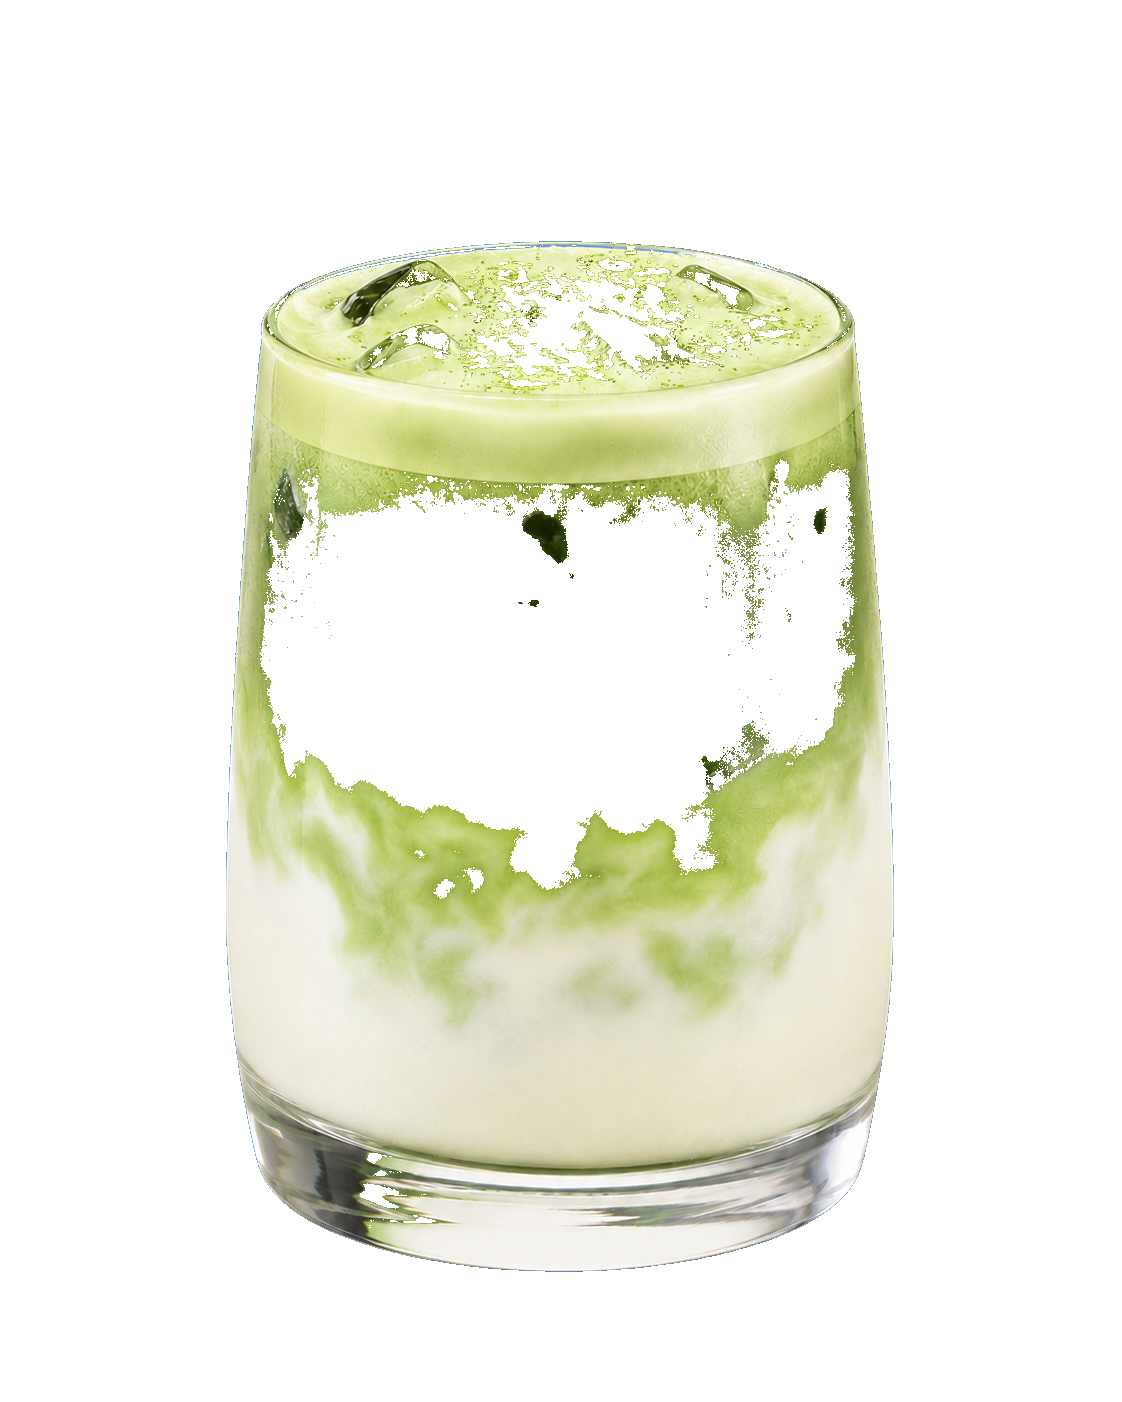
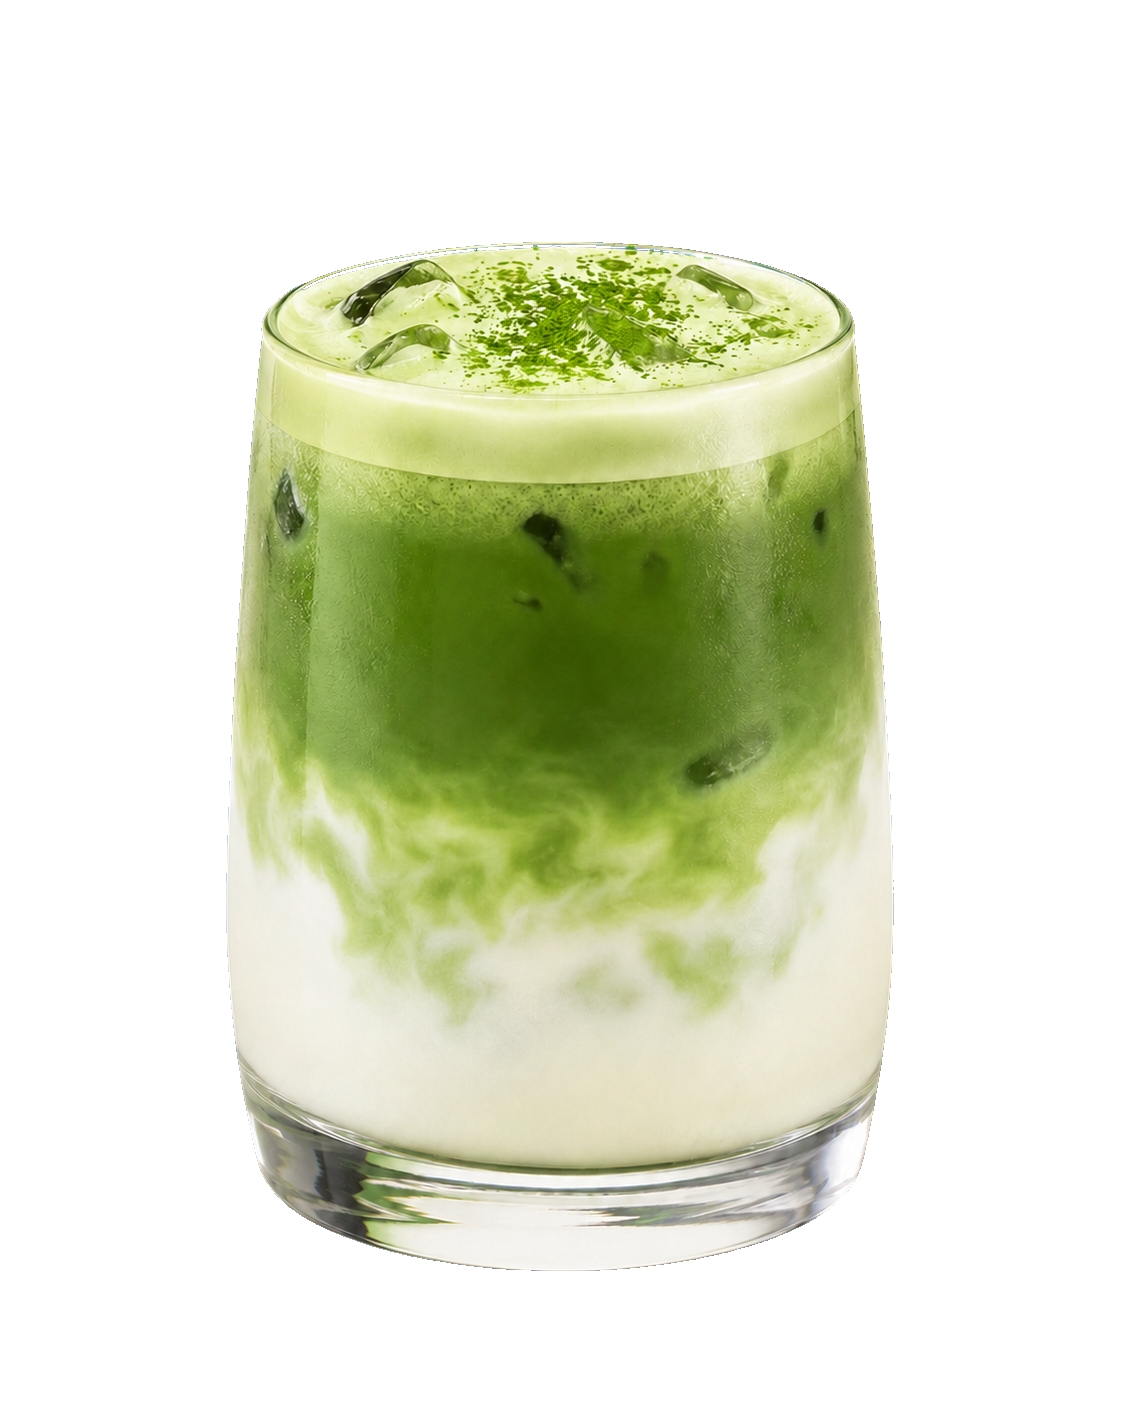
feat: adjust hero delays, transition duration to 2s, remove blue bg from matcha, reposition gallery, and wrap menu tabs

diff --git a/components/sections/HeroSection.tsx b/components/sections/HeroSection.tsx
@@ -143,9 +143,9 @@ export function HeroSection() {
       <div className="max-w-6xl mx-auto relative z-10 w-full">
         <div className="max-w-4xl space-y-8">
           
-          {/* Badge animation - slides in left, delay: 1000ms */}
+          {/* Badge animation - slides in left, delay: 150ms */}
           <div
-            style={{ transitionDelay: "1000ms" }}
+            style={{ transitionDelay: "150ms" }}
             className={cn(
               "animate-slide-in-left duration-700",
               isInView && "in-view"
@@ -156,10 +156,10 @@ export function HeroSection() {
             </span>
           </div>
 
-          {/* Headline animations - slides in left. Dòng 1 (1200ms) ➔ Dòng 2 (1550ms) */}
+          {/* Headline animations - slides in left. Dòng 1 (350ms) ➔ Dòng 2 (600ms) */}
           <h1 className="font-serif font-black text-espresso-dark leading-[1.25] tracking-tight pb-2">
             <span
-              style={{ transitionDelay: "1200ms" }}
+              style={{ transitionDelay: "350ms" }}
               className={cn(
                 "block text-4xl sm:text-5xl md:text-6xl lg:text-7xl whitespace-nowrap animate-slide-in-left duration-700",
                 isInView && "in-view"
@@ -168,7 +168,7 @@ export function HeroSection() {
               {t.headlineLine1}
             </span>
             <span
-              style={{ transitionDelay: "1550ms" }}
+              style={{ transitionDelay: "600ms" }}
               className={cn(
                 "block text-4xl sm:text-5xl md:text-6xl lg:text-7xl whitespace-nowrap mt-2 text-olive-primary animate-slide-in-left duration-700",
                 isInView && "in-view"
@@ -178,9 +178,9 @@ export function HeroSection() {
             </span>
           </h1>
 
-          {/* Subheadline animation - slides in left, delay: 1900ms */}
+          {/* Subheadline animation - slides in left, delay: 850ms */}
           <div
-            style={{ transitionDelay: "1900ms" }}
+            style={{ transitionDelay: "850ms" }}
             className={cn(
               "animate-slide-in-left duration-700",
               isInView && "in-view"
@@ -191,9 +191,9 @@ export function HeroSection() {
             </p>
           </div>
 
-          {/* Typing Effect - slides in left, delay: 2100ms */}
+          {/* Typing Effect - slides in left, delay: 1050ms */}
           <div
-            style={{ transitionDelay: "2100ms" }}
+            style={{ transitionDelay: "1050ms" }}
             className={cn(
               "h-10 flex items-center animate-slide-in-left duration-700",
               isInView && "in-view"
@@ -205,9 +205,9 @@ export function HeroSection() {
             </span>
           </div>
 
-          {/* Buttons animation - slides in left, delay: 2350ms */}
+          {/* Buttons animation - slides in left, delay: 1250ms */}
           <div
-            style={{ transitionDelay: "2350ms" }}
+            style={{ transitionDelay: "1250ms" }}
             className={cn(
               "pt-2 flex flex-col sm:flex-row gap-4 animate-slide-in-left duration-700",
               isInView && "in-view"

diff --git a/app/globals.css b/app/globals.css
@@ -67,7 +67,7 @@ body {
 .animate-slide-up {
   opacity: 0;
   transform: translateY(2rem);
-  transition: opacity 0.8s cubic-bezier(0.215, 0.61, 0.355, 1), transform 0.8s cubic-bezier(0.215, 0.61, 0.355, 1);
+  transition: opacity 2s cubic-bezier(0.215, 0.61, 0.355, 1), transform 2s cubic-bezier(0.215, 0.61, 0.355, 1);
 }
 .animate-slide-up.in-view {
   opacity: 1;
@@ -77,7 +77,7 @@ body {
 .animate-slide-in-left {
   opacity: 0;
   transform: translateX(-3rem);
-  transition: opacity 0.8s cubic-bezier(0.215, 0.61, 0.355, 1), transform 0.8s cubic-bezier(0.215, 0.61, 0.355, 1);
+  transition: opacity 2s cubic-bezier(0.215, 0.61, 0.355, 1), transform 2s cubic-bezier(0.215, 0.61, 0.355, 1);
 }
 .animate-slide-in-left.in-view {
   opacity: 1;
@@ -87,7 +87,7 @@ body {
 .animate-slide-in-right {
   opacity: 0;
   transform: translateX(3rem);
-  transition: opacity 0.8s cubic-bezier(0.215, 0.61, 0.355, 1), transform 0.8s cubic-bezier(0.215, 0.61, 0.355, 1);
+  transition: opacity 2s cubic-bezier(0.215, 0.61, 0.355, 1), transform 2s cubic-bezier(0.215, 0.61, 0.355, 1);
 }
 .animate-slide-in-right.in-view {
   opacity: 1;
@@ -96,7 +96,7 @@ body {
 
 .animate-fade-in {
   opacity: 0;
-  transition: opacity 0.8s ease-out;
+  transition: opacity 2s ease-out;
 }
 .animate-fade-in.in-view {
   opacity: 1;
@@ -105,7 +105,7 @@ body {
 .animate-slide-down {
   opacity: 0;
   transform: translateY(-2rem);
-  transition: opacity 0.8s cubic-bezier(0.215, 0.61, 0.355, 1), transform 0.8s cubic-bezier(0.215, 0.61, 0.355, 1);
+  transition: opacity 2s cubic-bezier(0.215, 0.61, 0.355, 1), transform 2s cubic-bezier(0.215, 0.61, 0.355, 1);
 }
 .animate-slide-down.in-view {
   opacity: 1;

diff --git a/hooks/useScrollAnimation.ts b/hooks/useScrollAnimation.ts
@@ -7,18 +7,11 @@ export function useScrollAnimation() {
   const [isInView, setIsInView] = useState(false);
 
   useEffect(() => {
-    let timeoutId: NodeJS.Timeout;
-
     const observer = new IntersectionObserver(
       ([entry]) => {
         if (entry.isIntersecting) {
-          // Delay entry by 2 seconds (2000ms) after entering the viewport
-          timeoutId = setTimeout(() => {
-            setIsInView(true);
-          }, 2000);
+          setIsInView(true);
         } else {
-          // Reset immediately when leaving viewport
-          clearTimeout(timeoutId);
           setIsInView(false);
         }
       },
@@ -34,7 +27,6 @@ export function useScrollAnimation() {
     }
 
     return () => {
-      clearTimeout(timeoutId);
       if (currentRef) {
         observer.unobserve(currentRef);
       }

diff --git a/components/sections/MenuSection.tsx b/components/sections/MenuSection.tsx
@@ -2116,8 +2116,8 @@ export function MenuSection({ className }: MenuSectionProps) {
               
               {/* Category Tabs Wrapper */}
               <div className="space-y-4">
-                {/* Horizontal Scrollable Tabs */}
-                <div className="flex gap-2 overflow-x-auto pb-2 scrollbar-none snap-x -mx-2 px-2">
+                {/* Wrapping tabs layout to show all categories immediately */}
+                <div className="flex flex-wrap gap-2 pb-2">
                   {currentMenuData.map((cat, idx) => {
                     const IconComponent = cat.icon;
                     const isActive = activeCategoryIndex === idx;

diff --git a/app/(landing)/[slug]/page.tsx b/app/(landing)/[slug]/page.tsx
@@ -49,6 +49,9 @@ export default async function LandingPage({ params }: PageProps) {
       {/* 1. Hero banner */}
       <HeroSection />
 
+      {/* Gallery Parallax Rows */}
+      <GalleryParallax />
+
       {/* 2. Giới thiệu ngắn về CAM CAM */}
       <AboutSection />
 
@@ -57,9 +60,6 @@ export default async function LandingPage({ params }: PageProps) {
 
       {/* 4. Menu / nhóm đồ uống tiêu biểu */}
       <MenuSection />
-
-      {/* Gallery Parallax Rows */}
-      <GalleryParallax />
 
       {/* 5. Không gian và câu chuyện thương hiệu */}
       <StorySection bgImage={content.story.bgImage} />
